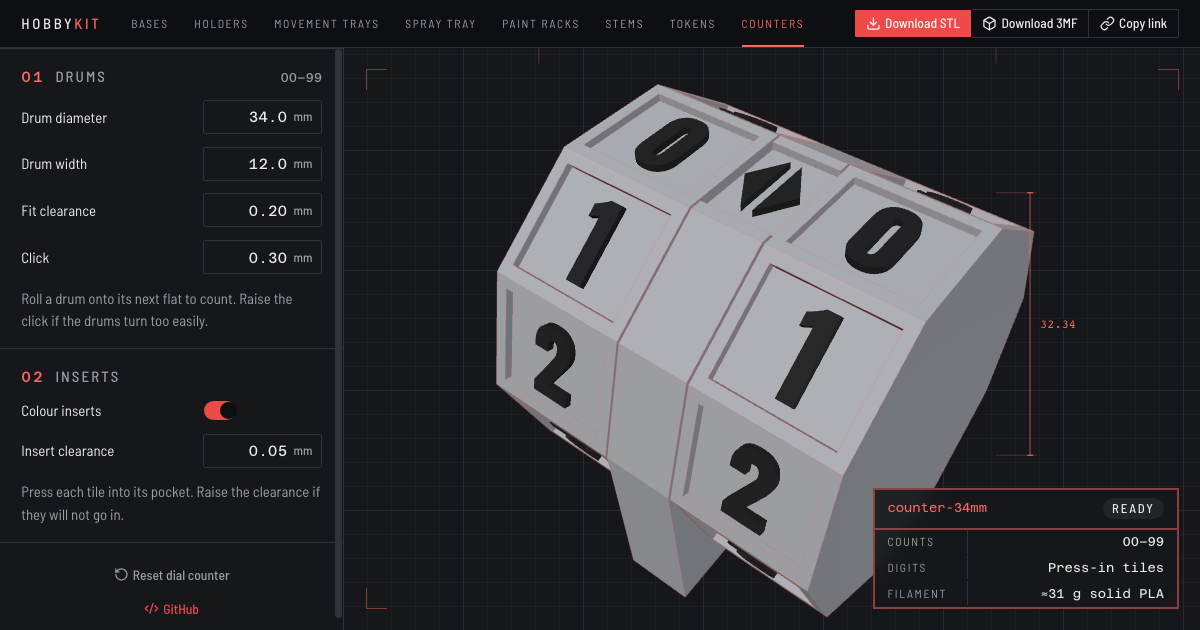
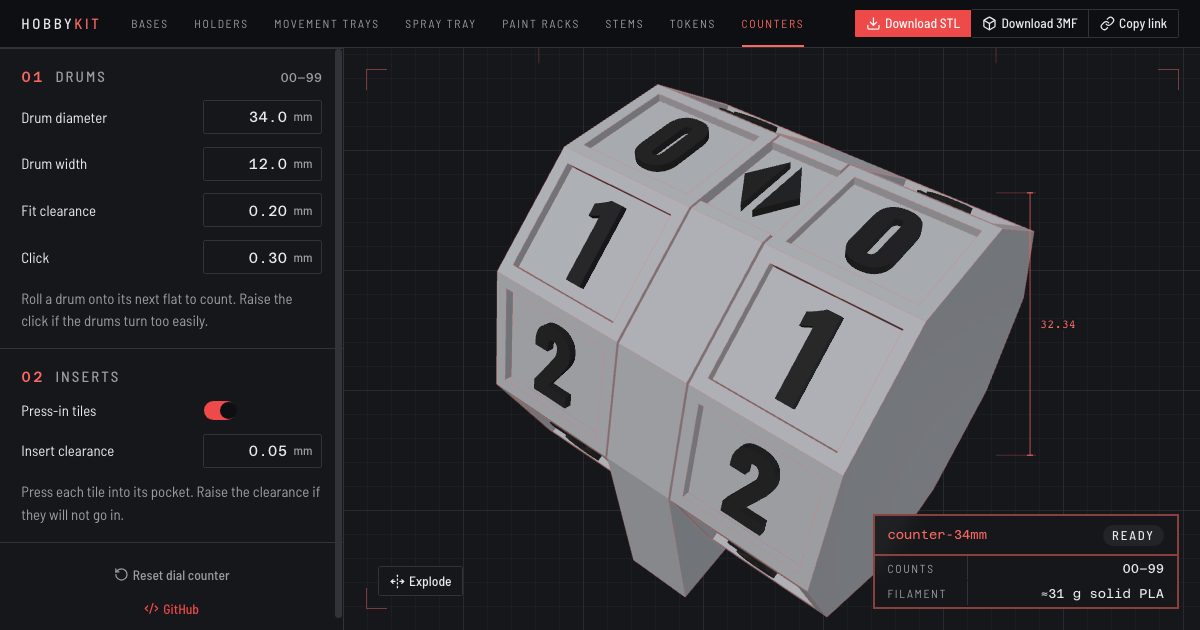
fix(counters): drop the duplicate Digits row and refresh link previews
The title block's Digits row repeated the Press-in tiles toggle. The counter and spray tray cards predated the printed detents and the Explode button.

Changed region(s): [[0.7092, 0.754, 0.9867, 0.9048], [0.0, 0.6333, 0.0925, 0.6635], [0.3083, 0.9048, 0.37, 0.9349]]

diff --git a/e2e/generator.spec.ts b/e2e/generator.spec.ts
@@ -516,7 +516,6 @@ test('builds a dial counter and downloads each part with its tiles', async ({ pa
 
   await expect(tall(page)).toHaveText('32.34')
   await expect(footer(page)).toContainText('counter-34mm')
-  await expect(footer(page)).toContainText('Press-in tiles')
 
   // Resizing scales every face without adding triangles, so the footer's name shows the rebuild.
   await setDimension(page, 'Drum diameter in mm', '36')

diff --git a/src/components/TitleBlock.tsx b/src/components/TitleBlock.tsx
@@ -55,12 +55,7 @@ function PartRows({ config }: { config: PartConfig }) {
     )
   }
   if (config.kind === 'counter') {
-    return (
-      <>
-        <Row label="Counts" value="00–99" />
-        <Row label="Digits" value={config.inserts ? 'Press-in tiles' : 'Engraved'} />
-      </>
-    )
+    return <Row label="Counts" value="00–99" />
   }
   if (config.kind === 'paint-rack') {
     return (

diff --git a/.changeset/counter-title-block.md b/.changeset/counter-title-block.md
@@ -1,0 +1,5 @@
+---
+'hobbykit': patch
+---
+
+Drop the dial counter title block's Digits row, which repeated the Press-in tiles toggle, and refresh the counter and spray tray link previews.
